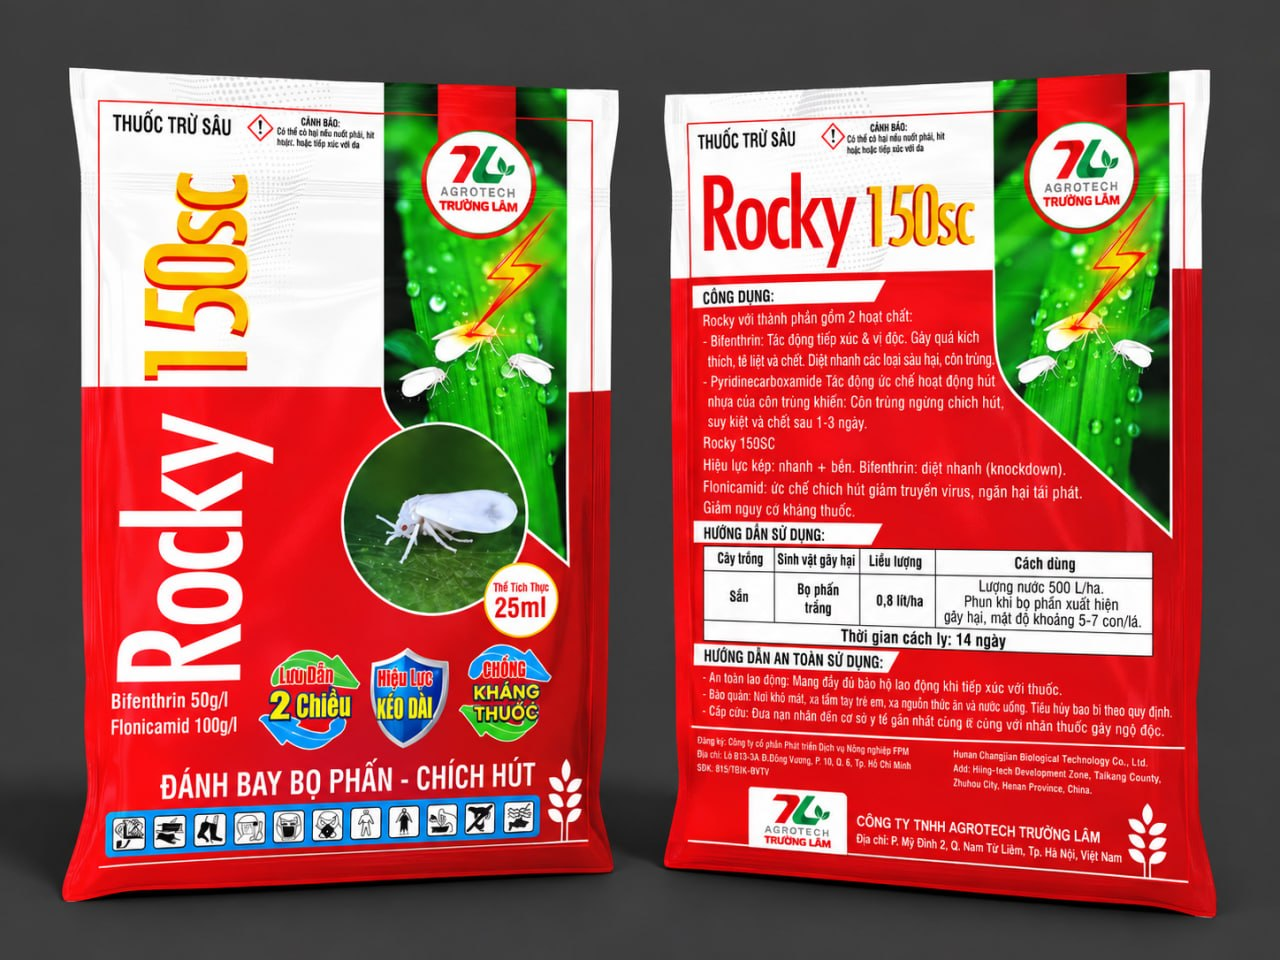
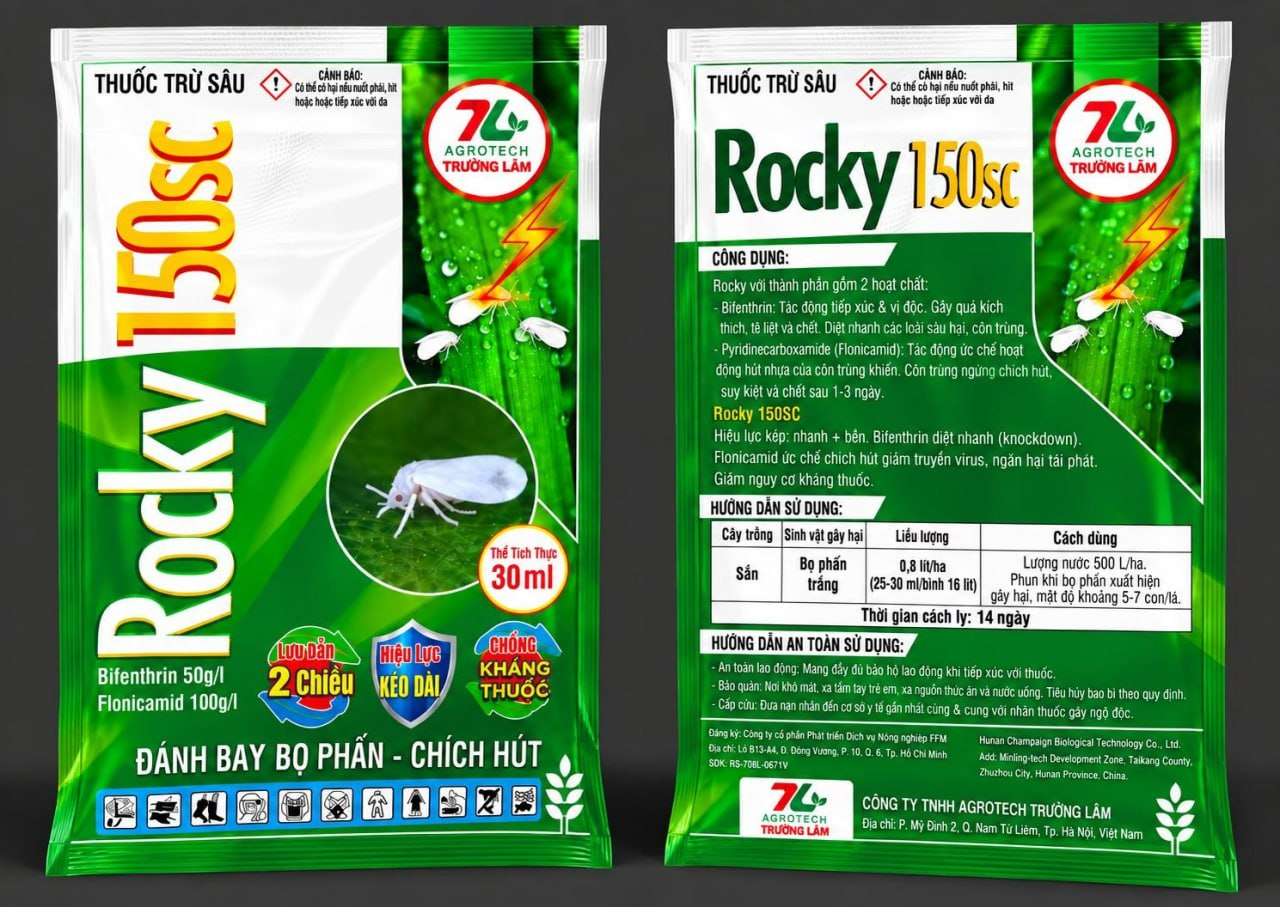
Update Rocky 150SC pack to 30 ml

diff --git a/index.html b/index.html
@@ -176,7 +176,7 @@
         <article class="catalog-card reveal" data-category="fungicide"><div class="catalog-photo"><img src="assets/masterone-26sc-mockup-v2.png" alt="Mockup thuốc trừ bệnh Masterone 26SC"><span>Trừ bệnh</span></div><div class="catalog-body"><small>Lưu dẫn hai chiều</small><h3>Masterone 26SC</h3><p><b>Fenoxanil 20% + Kresoxim-methyl 6%</b><br>Đăng ký trừ thán thư trên cà phê. Liều 0,25%; cách ly 10 ngày.</p><div><span>Gói 28 ml</span><a href="tel:0388051282">Tư vấn →</a></div></div></article>
         <article class="catalog-card reveal" data-category="insecticide"><div class="catalog-photo product-cutout product-photo-pair"><img src="assets/matsu-power-12sc-photo-v2.jpg" alt="Mặt trước và mặt sau sản phẩm Matsu Power 12SC"><span>Trừ sâu</span></div><div class="catalog-body"><small>Tiếp xúc · Vị độc · Kéo dài</small><h3>Matsu Power 12SC</h3><p><b>Chlorfenapyr 9,5% + Lufenuron 2,5%</b><br>Đăng ký trừ sâu keo mùa thu trên ngô. Liều 0,4 lít/ha; cách ly 14 ngày.</p><div><span>Gói 30 ml</span><a href="tel:0388051282">Tư vấn →</a></div></div></article>
         <article class="catalog-card reveal" data-category="insecticide"><div class="catalog-photo product-cutout product-photo-pair"><img src="assets/techtimex-50wg-photo-v2.jpg" alt="Mặt trước và mặt sau sản phẩm Techtimex 50WG"><span>Trừ sâu</span></div><div class="catalog-body"><small>Hai hoạt chất · Tác động kép</small><h3>Techtimex 50WG</h3><p><b>Emamectin benzoate 49 g/kg + Matrine 1 g/kg</b><br>Đăng ký trừ sâu cuốn lá trên lúa. Liều 100–150 g/ha; cách ly 7 ngày.</p><div><span>Gói 100 g</span><a href="tel:0388051282">Tư vấn →</a></div></div></article>
-        <article class="catalog-card reveal" data-category="insecticide"><div class="catalog-photo product-cutout product-photo-pair"><img src="assets/rocky-150sc.jpg" alt="Mặt trước và mặt sau gói thuốc trừ sâu Rocky 150SC"><span>Trừ sâu</span></div><div class="catalog-body"><small>Lưu dẫn hai chiều · Hiệu lực kéo dài</small><h3>Rocky 150SC</h3><p><b>Bifenthrin 50 g/L + Flonicamid 100 g/L</b><br>Ưu tiên bọ phấn trắng, bọ trĩ và rầy xanh. Đăng ký trừ bọ phấn trắng trên sắn; cách ly 14 ngày.</p><div><span>Gói 25 ml</span><a href="tel:0388051282">Tư vấn →</a></div></div></article>
+        <article class="catalog-card reveal" data-category="insecticide"><div class="catalog-photo product-cutout product-photo-pair"><img src="assets/rocky-150sc.jpg?v=30ml-20261003" alt="Mặt trước và mặt sau gói thuốc trừ sâu Rocky 150SC 30 ml"><span>Trừ sâu</span></div><div class="catalog-body"><small>Lưu dẫn hai chiều · Hiệu lực kéo dài</small><h3>Rocky 150SC</h3><p><b>Bifenthrin 50 g/L + Flonicamid 100 g/L</b><br>Ưu tiên bọ phấn trắng, bọ trĩ và rầy xanh. Đăng ký trừ bọ phấn trắng trên sắn; cách ly 14 ngày.</p><div><span>Gói 30 ml</span><a href="tel:0388051282">Tư vấn →</a></div></div></article>
       </div>
       <div class="pest-library reveal">
         <div class="pest-library-head"><div><div class="section-kicker">Thư viện nhận diện</div><h3>Sâu bệnh hại chính theo cây trồng</h3></div><p>Chọn nhóm cây để xem nhanh các đối tượng thường gặp. Hình ảnh dùng để tham khảo nhận diện; chẩn đoán thực tế cần kết hợp triệu chứng, thời tiết và lịch sử canh tác.</p></div>
